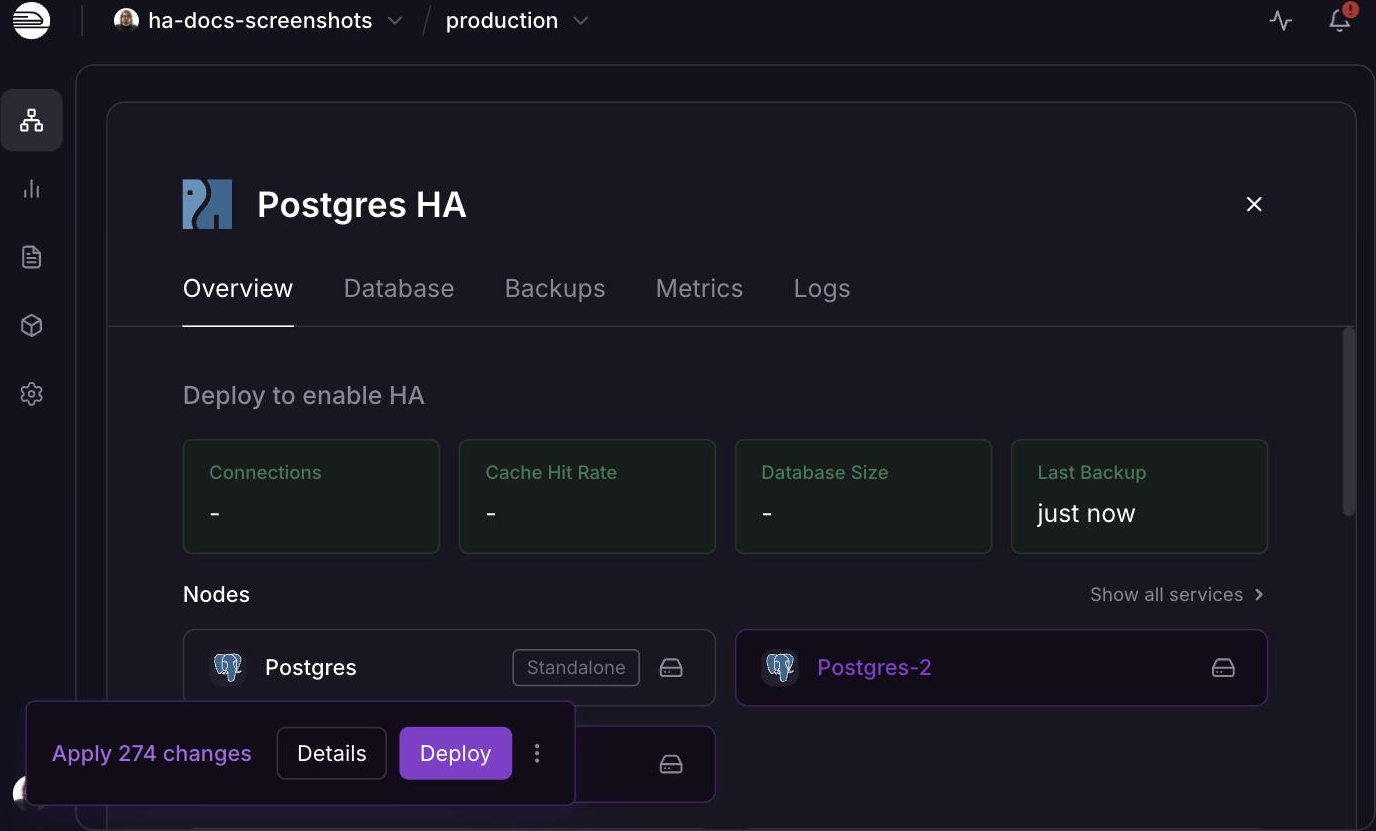
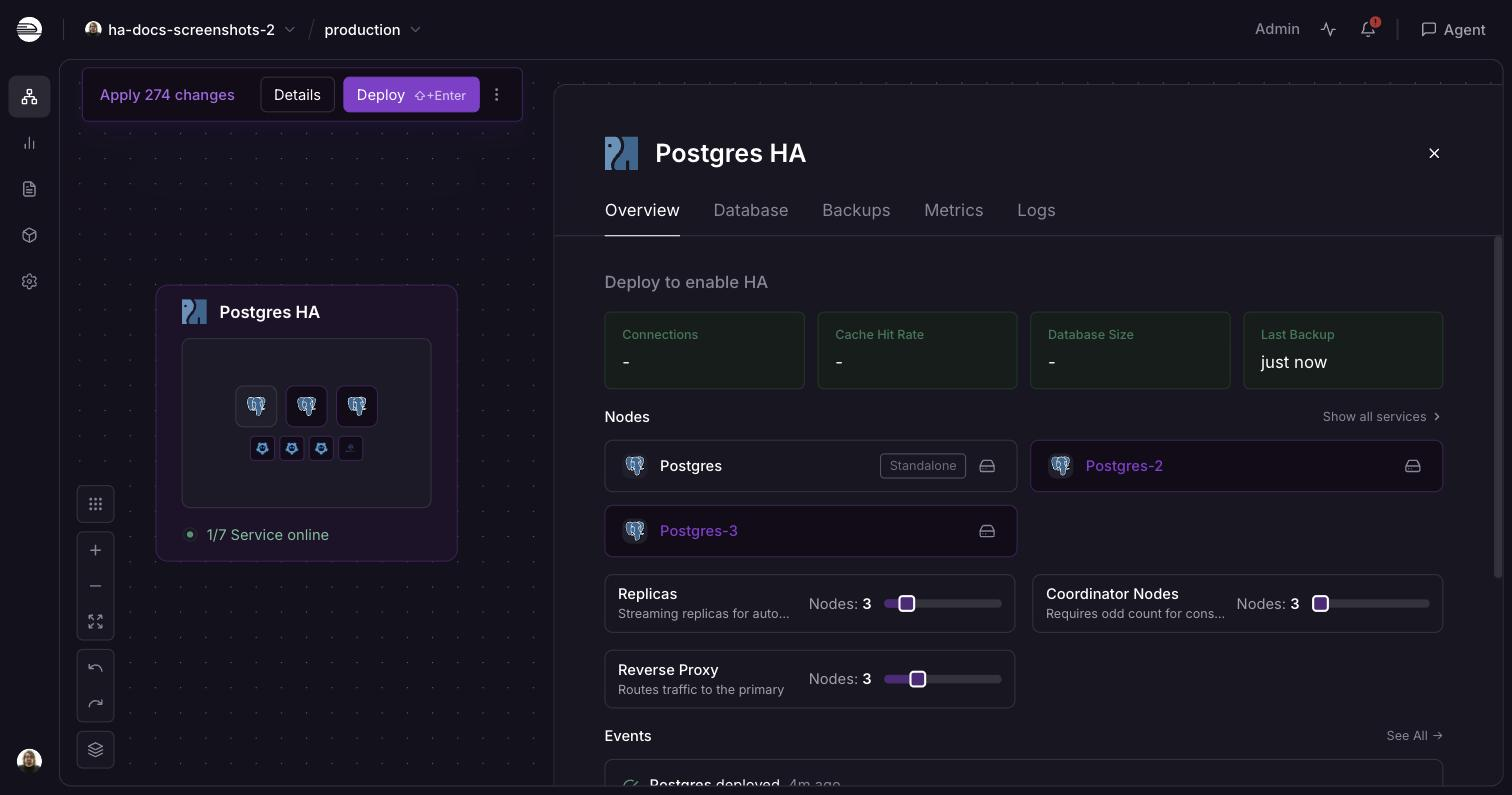
Retake the Postgres HA config and staged screenshots at full size

diff --git a/content/docs/databases/postgresql-ha.md b/content/docs/databases/postgresql-ha.md
@@ -49,7 +49,7 @@ Open your Postgres service and navigate to **Database → Config → High Availa
 <Image src="/images/postgresql-ha-config.png"
 alt="High Availability section in the Postgres Config tab, showing the Replicas, Coordinator Nodes, and Reverse Proxy selectors and the Convert to HA button"
 layout="intrinsic"
-width={1384} height={541} quality={100} />
+width={956} height={574} quality={100} />
 
 Click **Convert to HA**. A confirmation dialog will appear warning that:
 
@@ -72,7 +72,7 @@ Review the staged changes and click **Deploy** to complete the conversion.
 <Image src="/images/postgresql-ha-staged.png"
 alt="Cluster overview showing the staged HA services with a Deploy to enable HA banner"
 layout="intrinsic"
-width={1376} height={831} quality={100} />
+width={1512} height={795} quality={100} />
 
 ## Step 3 — Connection Strings
 
